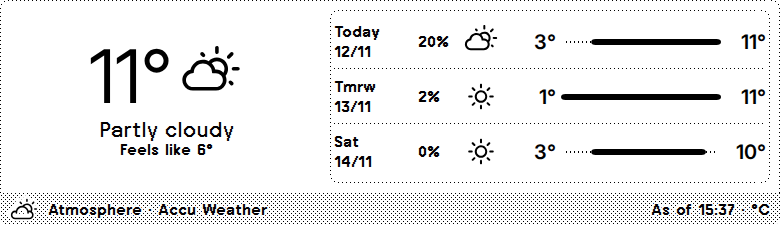
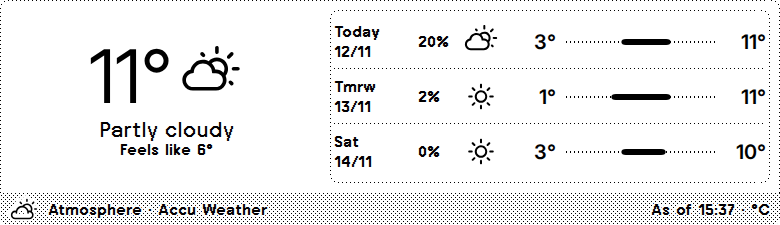
fix: improve forecast labels and temperature range scale

diff --git a/TRMNL/README.md b/TRMNL/README.md
@@ -101,6 +101,7 @@ When upgrading from the removed city and Coordinates fields, choose Location aga
 
 - [Verified API mapping](../docs/api-overview.md) records live request comparisons, parameter behavior, request examples and the captured `301` rain regression.
 - Xiaomi supplied five daily forecasts and 23 hourly entries for Barcelona despite a seven-day request. The full view shows up to twelve eligible hourly entries in one row, with eight visible on OG portrait. Each entry represents its own API hour; missing values are omitted without inventing replacements.
+- Daily range tracks share a scale across the displayed days, spanning at least **30°C (54°F of difference)**. Narrower forecasts receive equal padding at both ends; wider forecasts expand the scale. Numeric lows/highs are retained, and equal temperatures appear as a centered point. The full X layout uses bold 21px day labels, original 16px dates and 21px precipitation labels; compact layouts retain their smaller label sizes.
 - The observation time remains visible. Observations older than three hours are marked as old data when rendered; elapsed hourly entries are removed.
 - Missing optional values display an em dash. Missing current temperature produces an explicit unavailable state. Missing precipitation is never reported as 0%.
 - European air-quality fields were unavailable and are omitted. Attribution follows the returned provider, AccuWeather via Xiaomi in the tested cities.
